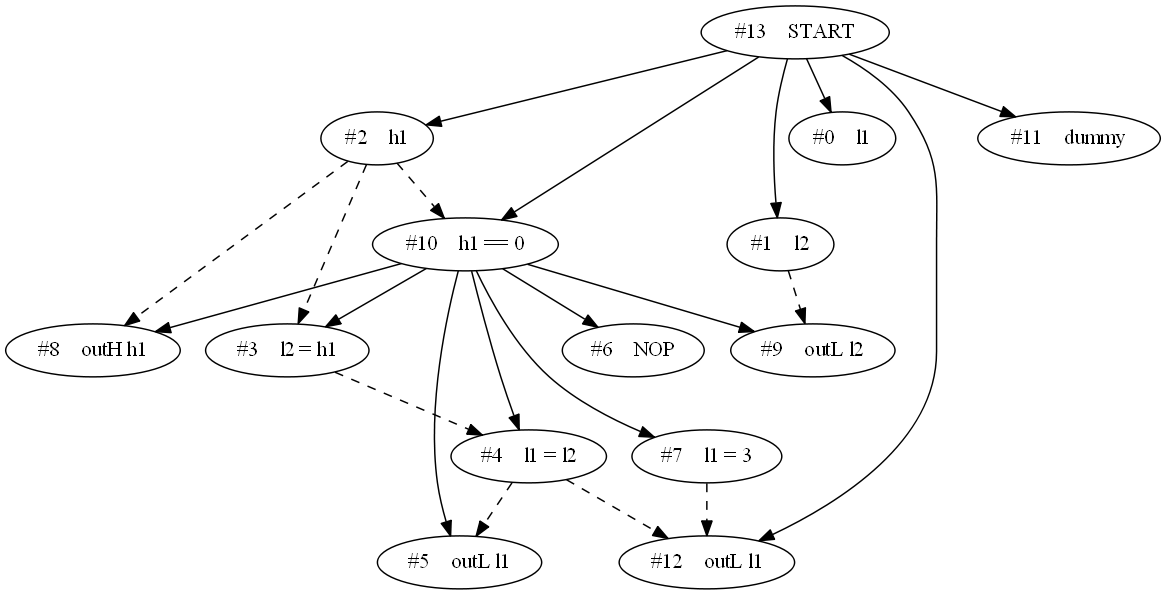
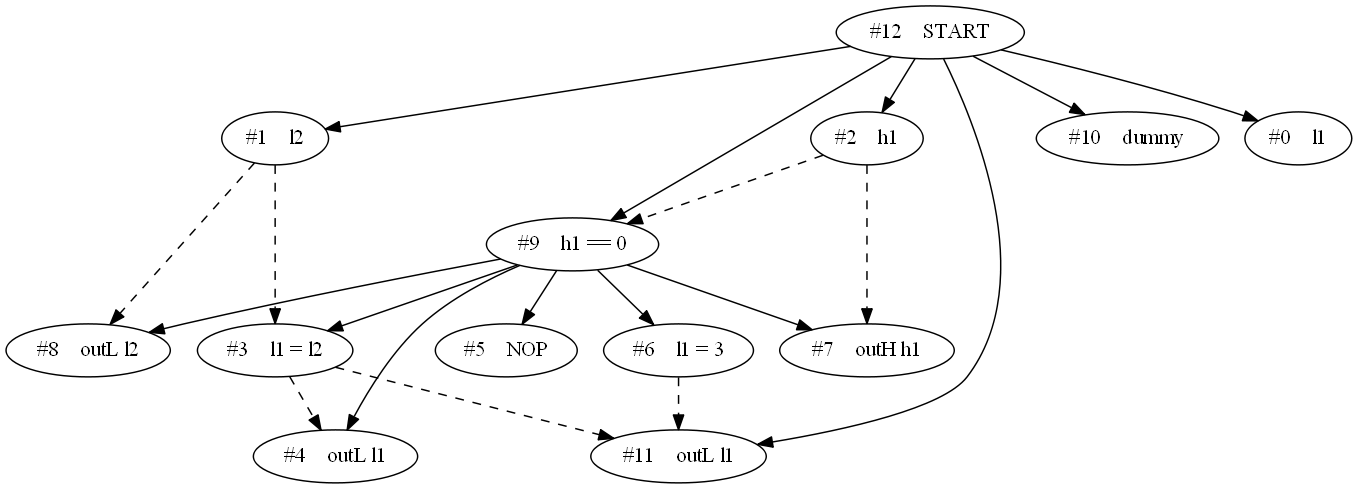
execution condition به نظر درست میاد
برای امتحان کردن درستیش، باید دقت بیشتری کرد

diff --git a/Project/WLRewriter/src/wlrewriter/PINIRewriter.java b/Project/WLRewriter/src/wlrewriter/PINIRewriter.java
@@ -21,6 +21,7 @@ public class PINIRewriter {
     private HashSet<LinkedList<Node>> F; // the set of paths
 
     private HashMap<LinkedList<Node>, Boolean> typeOfPaths; // each path is explicit (TRUE) or implicit (FALSE)
+    private HashMap<LinkedList<Node>, ArrayList<String>> executionConditions; // execution conditions for nodes N satisfying... 
     private Node sourceNode, destinationNode;
 
     public PINIRewriter(MyLinkedList pdg) {
@@ -30,7 +31,8 @@ public class PINIRewriter {
 
         F = new HashSet<>(); // paths
         typeOfPaths = new HashMap<>();
-        
+        executionConditions = new HashMap<>();
+
         initializeF(); //initializing paths
 
         rewritedSourceCode = reWrite(); //algorithm method
@@ -95,18 +97,19 @@ public class PINIRewriter {
              */
             for (LinkedList<Node> path : F) {
                 boolean isExplicitFlow = true;
-                for (int i = 0; i < path.size()-1; i++) {
+                for (int i = 0; i < path.size() - 1; i++) {
                     Node n = path.get(i);
                     Node q = path.get(i + 1);
+                    
                     if (n.getContolDep().contains(q)) { // ba node ba'di ya control dep dare ya data dep, nemishe joftesh bashe
                         isExplicitFlow = false;
                         break;
                     }
                 }
                 path.add(0, pdg.getFirst());
-                
+
                 typeOfPaths.put(path, isExplicitFlow);
-                
+
                 printPath(path);
             }
         }
@@ -119,6 +122,19 @@ public class PINIRewriter {
         }
         else { // if there are paths, so...
             CopyOfSourceCode = new String(sourceCode); //create a copy of M, name it M'
+
+            for (LinkedList<Node> path : F) {
+                ArrayList<String> executionConditionsForThisPath = new ArrayList<>();
+                for (int i = 0; i < path.size() - 2; i++) { //Start ~~> X -data-> N ~~>P'
+                    Node X = path.get(i);
+                    Node N = path.get(i + 1);
+                    if (X.getDataDepsForThisNode().contains(N)) {
+                        executionConditionsForThisPath.add(findExecutionCondition(N));
+                    }
+                }
+                executionConditions.put(path, executionConditionsForThisPath);
+                System.out.println(executionConditionsForThisPath);
+            }
 
             return CopyOfSourceCode;
         }
@@ -159,42 +175,6 @@ public class PINIRewriter {
         }
 
     }
-    /*
-     private void explicitFlows(LinkedList<Node> visited) {
-
-     HashSet<Node> dataDeps = visited.getLast().getDataDepsForThisNode();
-
-     LinkedList<Node> nodes = new LinkedList<>();
-
-     for (Node n : dataDeps) {
-     nodes.add(n);
-     }
-
-     for (Node node : nodes) {
-     if (visited.contains(node)) {
-     continue;
-     }
-     if (node.equals(destinationNode)) {
-     visited.add(node);
-     //                printPath(visited);
-     explicitPaths.add(new LinkedList<>(visited));
-     visited.removeLast();
-     break;
-     }
-     }
-     for (Node node : nodes) {
-     if (visited.contains(node) || node.equals(destinationNode)) {
-     continue;
-     }
-
-     visited.addLast(node);
-     explicitFlows(visited);
-
-     visited.removeLast();
-     }
-
-     }
-     */
 
     private void printPath(LinkedList<Node> path) {
         if (typeOfPaths.get(path)) {
@@ -209,5 +189,84 @@ public class PINIRewriter {
         }
         System.out.println();
 
+    }
+
+    private String findExecutionCondition(Node node) {
+        Node parent = null;
+        for (Node alpha : node.getParentOfControlDep()) {
+            if (alpha.getNodeID() != node.getNodeID()) {
+                parent = alpha;
+            }
+        }
+        String executionCondition = "";
+
+        while (!parent.getStatement().equals("START")) {
+            boolean found = false;
+            for (Node n : pdg.getNodeSet()) {
+                n.isVisited = false;
+            }
+            if (parent.getNextPointer1() != null) {
+
+                Node temp = parent.getNextPointer1(); //agar sharte bargharar Bood
+                HashSet<Node> worklist = new HashSet<>();
+                worklist.add(temp);
+                while (!found && !temp.getStatement().equals("STOP") && !worklist.isEmpty()) {
+                    temp = worklist.iterator().next();
+                    temp.isVisited = true;
+                    if (temp.getNodeID() == node.getNodeID()) {
+                        found = true;
+                    }
+                    else {
+                        worklist.remove(temp);
+                        for (Node l : temp.succ()) {
+                            if (!l.isVisited) {
+                                worklist.add(l);
+                            }
+                        }
+                    }
+                }
+                if (found) {
+                    executionCondition += " (" + parent.getStatement() + " : TRUE) &&";
+                }
+            }
+            if (!found && parent.getNextPointer2() != null) {
+
+                Node temp = parent.getNextPointer2(); //agar sharte bargharar Nabood
+                HashSet<Node> worklist = new HashSet<>();
+                worklist.add(temp);
+                while (!found && !temp.getStatement().equals("STOP") && !worklist.isEmpty()) {
+                    temp = worklist.iterator().next();
+                    temp.isVisited = true;
+                    if (temp.getNodeID() == node.getNodeID()) {
+                        found = true;
+                    }
+                    else {
+                        worklist.remove(temp);
+                        for (Node l : temp.succ()) {
+                            if (!l.isVisited) {
+                                worklist.add(l);
+                            }
+                        }
+                    }
+                }
+                if (found) {
+                    executionCondition += " (" + parent.getStatement() + " : FALSE) &&";
+                }
+            }
+            Node maybeParent = null;
+            for (Node beta : parent.getParentOfControlDep()) {
+                if (beta.getNodeID() != parent.getNodeID()) {
+                    maybeParent = beta;
+                }
+            }
+            parent = maybeParent;
+        }
+        executionCondition += "TRUE";
+
+        if (executionCondition.endsWith("&&TRUE")) {
+            executionCondition = executionCondition.replace("&&TRUE", "");
+        }
+
+        return executionCondition;
     }
 }

diff --git a/Project/WLRewriter/src/wlrewriter/PDGBuilder.java b/Project/WLRewriter/src/wlrewriter/PDGBuilder.java
@@ -313,7 +313,7 @@ public class PDGBuilder {
                     if (w.getNodeID() == x.getNodeID()) {
                         // mitavanad tekrari bashe [dar sorati ke be khodes nabayad vabastegi dashte bashe, in ja ye if mizarim : if(y.getNodeId()!=x.getNodeId())]
                         x.getContolDep().add(y);
-                        y.setParentOfControlDep(x);
+                        y.getParentOfControlDep().add(x);
 
                     }
                 }
@@ -454,10 +454,28 @@ public class PDGBuilder {
                     for (Node temp : nodeInFDT.getContolDep()) {
                         for (Node temp2 : PDG.getNodeSet()) {
                             if (temp.getNodeID() == temp2.getNodeID()) {
+
+                                for (Node temp3 : cfg.getNodeSet()) {
+                                    if (temp3.getNodeID() == temp2.getNodeID()) {
+//                                        temp2.setNextPointer1(temp3.getNextPointer1());
+//                                        temp2.setNextPointer2(temp3.getNextPointer2());
+                                    }
+                                }
+
                                 nodeInPDG.getContolDep().add(temp2);
                             }
                         }
                     }
+
+                    for (Node temp3 : cfg.getNodeSet()) {
+                        for (Node tempq : nodeInFDT.getParentOfControlDep()) {
+                            if (temp3.getNodeID() == tempq.getNodeID()) {
+                                tempq.setNextPointer1(temp3.getNextPointer1());
+                                tempq.setNextPointer2(temp3.getNextPointer2());
+                            }
+                        }
+                    }
+                    nodeInPDG.setParentOfControlDep(nodeInFDT.getParentOfControlDep());
 
                     for (Node temp : nodeInFDT.getDataDepsForThisNode()) {
                         for (Node temp2 : PDG.getNodeSet()) {
@@ -466,6 +484,8 @@ public class PDGBuilder {
                             }
                         }
                     }
+
+                    nodeInPDG.setParentsOfDataDep(nodeInFDT.getParentsOfDataDep());
 
                     break;
                 }

diff --git a/Project/WLRewriter/src/wlrewriter/Node.java b/Project/WLRewriter/src/wlrewriter/Node.java
@@ -33,7 +33,7 @@ public class Node {
     
     private HashSet<Node> dataDepsForThisNode; //data dependecies for this node that means which nodes are used this node's assigned variable 
 
-    private Node parentOfControlDep;
+    private HashSet<Node> parentOfControlDep;
     
     private HashSet<Node> parentsOfDataDep;
     
@@ -56,6 +56,7 @@ public class Node {
         dataDepsForThisNode = new HashSet<>();
         parentOfControlDep = null;
         parentsOfDataDep = new HashSet<>();
+        parentOfControlDep = new HashSet<>();
     }
 
     public int getNodeID() {
@@ -174,11 +175,11 @@ public class Node {
         return dataDepsForThisNode;
     }
 
-    public Node getParentOfControlDep() {
+    public HashSet<Node> getParentOfControlDep() {
         return parentOfControlDep;
     }
 
-    public void setParentOfControlDep(Node parentOfControlDep) {
+    public void setParentOfControlDep(HashSet parentOfControlDep) {
         this.parentOfControlDep = parentOfControlDep;
     }
 
